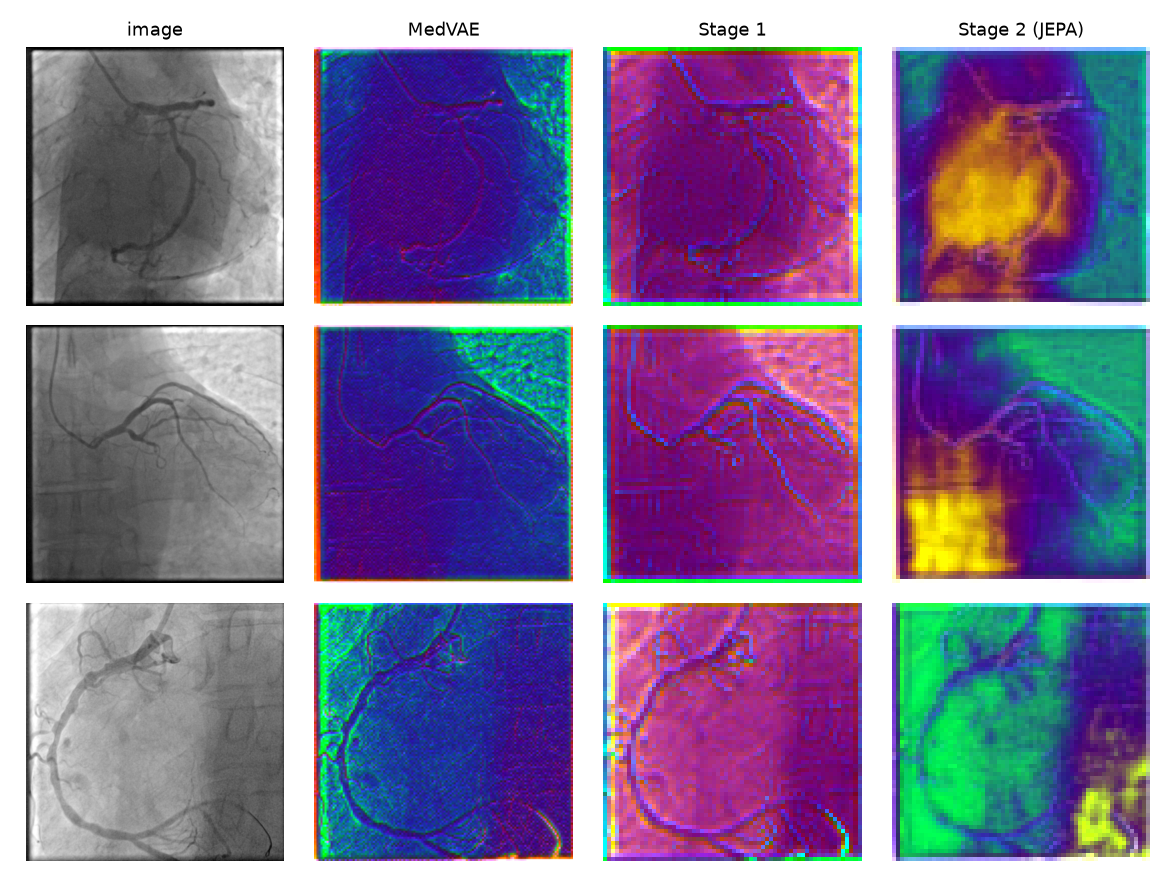
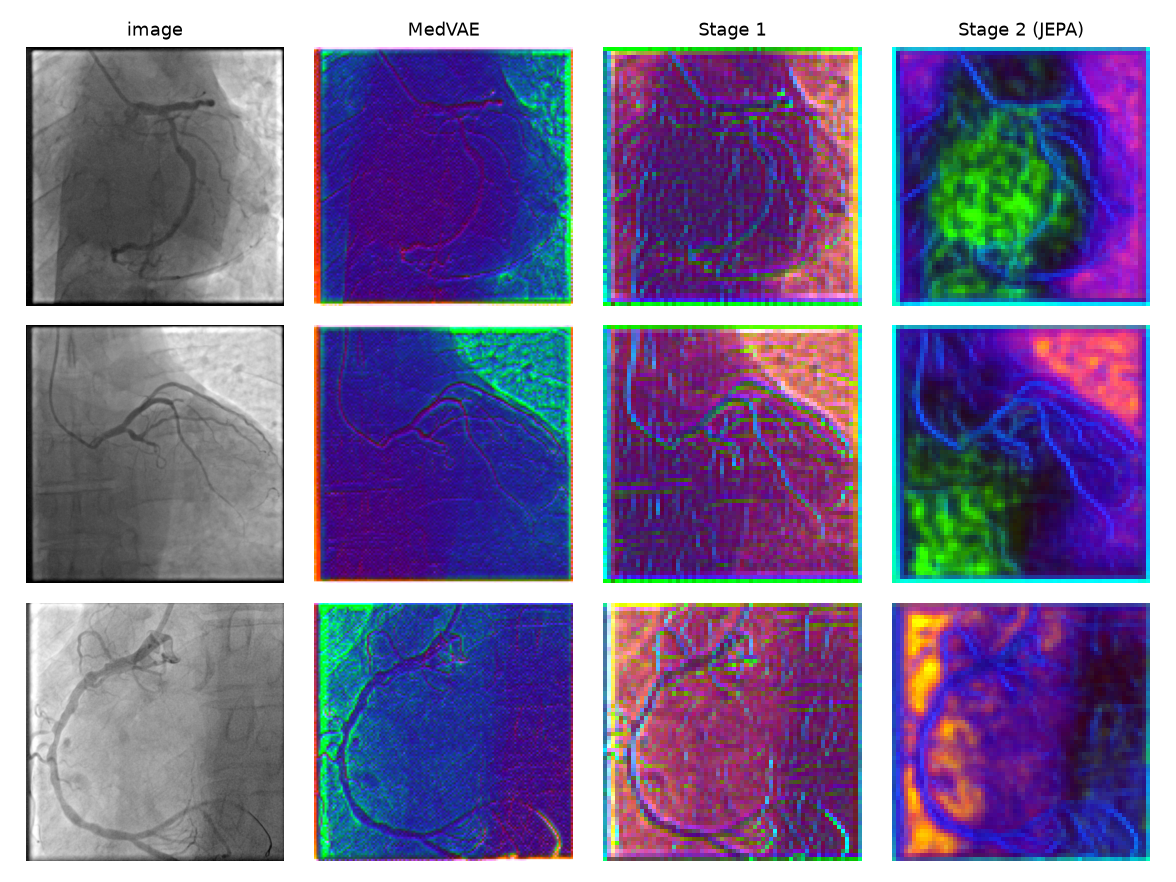
Axe C : rapport, slides, README et figures refaits sur E19 (audit CRIT-1, MAJ-6, MAJ-7)

diff --git a/final_report/final.tex b/final_report/final.tex
@@ -662,13 +662,13 @@ At the end of stage 2, one expects a latent space where patches that are anatomi
 
 \subsection{Results}
 
-\emph{Note on this revised version.} In an earlier version of this study, the ARCADE test images were part of the pre-training data, and the latent-space analysis (effective rank, number of principal components, $k$-NN and linear probe) was computed on the output of the channel-projection head $\texttt{channel\_proj}(\texttt{channel\_ds}(z)+z)$, a layer trained neither by the stage-1 loss nor by the JEPA loss; its conclusion that stage 2 concentrates the variance on 25 dimensions described a random projection of the latent. Both stages were retrained without the test images, and the representation is now evaluated on the layer that JEPA actually trains, on the 300 test images.
+\emph{Note on this revised version.} In an earlier version of this study, the ARCADE test images were part of the pre-training data, and the latent-space analysis (effective rank, number of principal components, $k$-NN and linear probe) was computed on the output of the channel-projection head $\texttt{channel\_proj}(\texttt{channel\_ds}(z)+z)$, a layer trained neither by the stage-1 loss nor by the JEPA loss; its conclusion that stage 2 concentrates the variance on 25 dimensions described a random projection of the latent. Both stages were retrained without the test images, and the representation is now evaluated on the layer that JEPA actually trains, on the 300 test images. The pre-training pipeline was then corrected once more (the augmentation noise reduced to its intended level, random augmentations made to differ across data-loading workers and epochs, fixed masks for the stage-2 validation that selects the checkpoint), and each stage was pre-trained with three seeds: the figures below are means over these three pre-trainings.
 
 \paragraph{Reconstruction quality.}
-During stage 2 the decoder remains frozen, so any displacement of the encoder into a subspace incompatible with the decoder directly degrades reconstruction (Table~\ref{tab:jepa}, Fig.~\ref{fig:recon}). Stage 1 reconstructs at $30.2$~dB, below the released MedVAE ($34.8$~dB), which compresses half as much per side and was trained on a million images; stage 2 collapses to $17.8$~dB, the frozen decoder no longer reading the representation of the adapted encoder.
+During stage 2 the decoder remains frozen, so any displacement of the encoder into a subspace incompatible with the decoder directly degrades reconstruction (Table~\ref{tab:jepa}, Fig.~\ref{fig:recon}). Stage 1 reconstructs at $31.1$~dB, below the released MedVAE ($34.8$~dB), which compresses half as much per side and was trained on a million images; stage 2 collapses to $18.6$~dB (between $17.6$ and $20.5$~dB depending on the pre-training), the frozen decoder no longer reading the representation of the adapted encoder.
 
 \paragraph{What the encoder has learnt.}
-We measure how linearly the trained features separate vessels from background: a linear probe (per-channel standardisation, $1\times1$ convolution, bilinear upsampling to $512\times512$) is trained on the 1\,000 training images, selected on the 200 validation images and evaluated on the test set, with three seeds. The probe must be trained to convergence: with a learning rate of $10^{-3}$ and 20 epochs, all scores were still rising at the last epoch; we report the converged setting (learning rate $10^{-2}$, 100 epochs), whose ranking is the same as with 20 and 60 epochs. A probe predicting the 25 artery segments, or using the single-channel latent, reaches a Dice of about $0.03$ for every model: a per-pixel linear classifier can neither name a segment nor separate vessels from a single channel. We also measure the dimensionality of the trained features (effective rank of the per-pixel feature vectors and number of principal components explaining $90\,\%$ of their variance).
+We measure how linearly the trained features separate vessels from background: a linear probe (per-channel standardisation, $1\times1$ convolution, bilinear upsampling to $512\times512$) is trained on the 1\,000 training images, selected on the 200 validation images and evaluated on the test set, with three seeds. The probe must be trained to convergence (with 20 epochs, all scores were still rising at the last epoch): we train it for 100 epochs and choose its learning rate, $10^{-3}$ or $10^{-2}$, on the validation Dice, which selects $10^{-2}$ for all three encoders. Stages 1 and 2 are compared pre-training by pre-training, with a 95\,\% confidence interval over the three pre-training seeds (Student); MedVAE is a single released model. A probe predicting the 25 artery segments, or using the single-channel latent, reaches a Dice of about $0.03$ for every model: a per-pixel linear classifier can neither name a segment nor separate vessels from a single channel. We also measure the dimensionality of the trained features (effective rank of the per-pixel feature vectors and number of principal components explaining $90\,\%$ of their variance).
 
 \begin{table}[htbp]
 \centering
@@ -677,37 +677,37 @@ We measure how linearly the trained features separate vessels from background: a
  & MedVAE & Stage 1 & Stage 2 JEPA \\
  & ($\times4$, released) & ($\times8$, from scratch) & \\
 \midrule
-PSNR / vessel PSNR (dB) & 34.8 / 35.5 & 30.2 / 30.9 & 17.8 / 24.5 \\
-Vessel probe, Dice & 0.517 $\pm$ 0.005 & \textbf{0.541 $\pm$ 0.005} & 0.485 $\pm$ 0.006 \\
-Effective rank (channels) & 251 (512) & 111 (256) & 139 (256) \\
-Components for 90\,\% variance & 61 & 22 & 34 \\
+PSNR / vessel PSNR (dB) & 34.8 / 35.5 & 31.1 / 31.7 & 18.6 / 22.9 \\
+Vessel probe, Dice & 0.517 $\pm$ 0.005 & \textbf{0.561 $\pm$ 0.006} & 0.536 $\pm$ 0.011 \\
+Effective rank (channels) & 251 (512) & 147 (256) & 156 (256) \\
+Components for 90\,\% variance & 61 & 46 & 50 \\
 \bottomrule
 \end{tabular}}
-\caption{Reconstruction and representation of the three encoders on the 300 ARCADE test images. The probe and the dimensionality are computed on the encoder features before \texttt{conv\_out}, the layer trained by the JEPA loss.}
+\caption{Reconstruction and representation of the three encoders on the 300 ARCADE test images. The probe and the dimensionality are computed on the encoder features before \texttt{conv\_out}, the layer trained by the JEPA loss. Stages 1 and 2: mean ($\pm$ standard deviation) over three pre-trainings; MedVAE: over three probe seeds.}
 \label{tab:jepa}
 \end{table}
 
 \begin{figure}[htbp]
     \centering
     \includegraphics[width=\columnwidth]{figures/yanic/recon.png}
-    \caption{Reconstruction of a test image by MedVAE, stage 1 and stage 2 (left to right after the original).}
+    \caption{Reconstruction of a test image by MedVAE, stage 1 and stage 2 (left to right after the original; pre-training seed 42).}
     \label{fig:recon}
 \end{figure}
 
-Stage 1, trained on coronary angiographies only, yields the features that best separate vessels from background ($0.541$), above the released MedVAE ($0.517$). JEPA degrades this representation instead of refining it: $0.485$ after stage 2, $0.056$ below its starting point and below the released MedVAE. It does not produce a dimensional contraction either: on the trained layer, the effective rank rises from 111 to 139 and the number of components from 22 to 34, which is the expected effect of the SIGReg term, designed to keep the embedding distribution isotropic.
+JEPA lowers the linear separability of the vessels instead of refining it: relative to the stage-1 encoder it starts from, the probe Dice drops by $0.025$ (95\,\% CI $[-0.045, -0.005]$), for each of the three pre-trainings ($-0.019$, $-0.022$, $-0.034$) and on the validation set as well. The adapted encoder ends up level with the released MedVAE ($+0.019$, CI $[-0.008, +0.045]$). Stage 1 gives the most separable features ($0.561$, against $0.517$ for MedVAE); since the two models differ in architecture, compression factor and training data, we do not attribute this gap to any one of these factors. JEPA does not produce a dimensional contraction either: the effective rank goes from 147 to 156 on average, without a consistent direction across pre-trainings ($+5$, $-2$, $+26$).
 
 \paragraph{Intermediate feature visualisation --- RGB PCA.}
-Projecting the same features on their first three principal components (PC1$\to$R, PC2$\to$G, PC3$\to$B, percentile normalisation [2\%, 98\%]), following the visualisation protocol of DINO~\cite{caron2021emergingpropertiesselfsupervisedvision} and LeJEPA~\cite{balestriero2025lejepaprovablescalableselfsupervised}, illustrates these results (Fig.~\ref{fig:pca}). The features of MedVAE and stage 1 follow the vascular tree, stage 1 with a cleaner separation from the background; those of stage 2 are dominated by large regions of homogeneous intensity, in which the vessels are only faintly visible: the patch-prediction objective favours a coarse, global description of the image over the fine local structure that segmentation needs.
+Projecting the same features on their first three principal components (PC1$\to$R, PC2$\to$G, PC3$\to$B, percentile normalisation [2\%, 98\%]), following the visualisation protocol of DINO~\cite{caron2021emergingpropertiesselfsupervisedvision} and LeJEPA~\cite{balestriero2025lejepaprovablescalableselfsupervised}, illustrates these results (Fig.~\ref{fig:pca}). The features of MedVAE and stage 1 follow the vascular tree, stage 1 with a cleaner separation from the background; in those of stage 2 the vessels are still visible, but large regions of homogeneous colour dominate, which is consistent with a coarser description of the image, less suited to the fine local structure that segmentation needs.
 
 \begin{figure}[htbp]
     \centering
     \includegraphics[width=\columnwidth]{figures/yanic/pca.png}
-    \caption{RGB PCA of the encoder features before \texttt{conv\_out} for three test angiographies (PCA fitted on 50 other test images). Columns: image, MedVAE, stage 1, stage 2.}
+    \caption{RGB PCA of the encoder features before \texttt{conv\_out} for three test angiographies (PCA fitted on 50 other test images; pre-training seed 42). Columns: image, MedVAE, stage 1, stage 2.}
     \label{fig:pca}
 \end{figure}
 
 \paragraph{Summary.}
-Replacing BioMedCLIP by a self-supervised JEPA objective on ARCADE, with a frozen decoder, degrades both the reconstruction and the linear separability of the vessels relative to the stage-1 autoencoder it starts from. Learning on coronary angiographies helps (stage 1 beats the released MedVAE on the probe), but the benefit comes from the domain-specific reconstruction training, not from the JEPA stage.
+Replacing BioMedCLIP by a self-supervised JEPA objective on ARCADE, with a frozen decoder, degrades both the reconstruction and the linear separability of the vessels relative to the stage-1 autoencoder it starts from, consistently over three pre-trainings; the adapted encoder is no better than the released MedVAE. In our experiments, the most separable features are those of the stage-1 autoencoder trained on ARCADE, before any JEPA training.
 
 \newpage
 \section{MedVAE as a Latent Representation for Coronary Segmentation}

diff --git a/final_report/presentation.tex b/final_report/presentation.tex
@@ -320,7 +320,7 @@ Blur & $-2.0 \to +0.1$ & -- \\
   \begin{itemize}
     \item \textbf{Stage 1 is not MedVAE}: same family, but smaller (21M), $\times8$ per side, trained \emph{from scratch} on ARCADE
     \item \alert{Earlier issues}: test images in the pre-training; the ``25 dimensions for 90\,\% of the variance'' measured \texttt{channel\_proj}, a layer \emph{never trained}
-    \item Now: retrained without the test set; evaluated on the layer JEPA trains (features before \texttt{conv\_out}), 300 test images
+    \item Now: retrained without the test set, \textbf{3 pre-trainings}; evaluated on the layer JEPA trains (features before \texttt{conv\_out}), 300 test images; probe lr chosen on validation
   \end{itemize}
   \vspace{0.3em}
   \centering\footnotesize
@@ -328,9 +328,9 @@ Blur & $-2.0 \to +0.1$ & -- \\
   \toprule
    & MedVAE & Stage 1 & Stage 2 JEPA \\
   \midrule
-  PSNR (dB) & 34.8 & 30.2 & 17.8 \\
-  Vessel linear probe (Dice) & 0.517 & \textbf{0.541} & 0.485 \\
-  Effective rank / dims for 90\,\% var. & 251 / 61 & 111 / 22 & 139 / 34 \\
+  PSNR (dB) & 34.8 & 31.1 & 18.6 \\
+  Vessel linear probe (Dice) & 0.517 & \textbf{0.561} & 0.536 \\
+  Effective rank / dims for 90\,\% var. & 251 / 61 & 147 / 46 & 156 / 50 \\
   \bottomrule
   \end{tabular}
 \end{frame}
@@ -342,9 +342,9 @@ Blur & $-2.0 \to +0.1$ & -- \\
   \vspace{0.2em}
   {\footnotesize
   \begin{itemize}
-    \item \alert{Frozen} decoder: the adapted encoder is no longer decodable (17.8 dB)
-    \item JEPA \textbf{degrades} vessel separability ($-0.056$ vs stage 1), \textbf{no contraction} (rank $111 \to 139$, as SIGReg intends)
-    \item Learning on angiographies helps (stage 1 $>$ MedVAE), JEPA does not
+    \item \alert{Frozen} decoder: the adapted encoder is no longer decodable (18.6 dB)
+    \item JEPA \textbf{lowers} vessel separability vs stage 1 ($-0.025$, 3 pre-trainings out of 3), ends level with MedVAE; \textbf{no contraction} (rank $147 \to 156$, no consistent direction)
+    \item Best features: stage 1, before JEPA
   \end{itemize}}
 \end{frame}
 

diff --git a/jepa_adaptation/eval/figures.py b/jepa_adaptation/eval/figures.py
@@ -1,4 +1,4 @@
-"""Figures de l'axe C (rapport) avec les modèles actuels : reconstructions et PCA des features.
+"""Figures de l'axe C (rapport) avec les modèles E19 (seed 42) : reconstructions et PCA des features.
 
     - recon.png : une image de test et ses reconstructions (MedVAE, étape 1, étape 2 JEPA) ;
     - pca.png   : features avant conv_out projetées sur 3 composantes principales (RGB),
@@ -27,9 +27,10 @@ from finetune.dataset import ArcadeDataset             # noqa: E402
 from probe import _penultimate_hook, load_autoencoder  # noqa: E402
 
 OUT = REPO_ROOT / "final_report" / "figures" / "yanic"
+RUNS = REPO_ROOT / "experiments" / "runs"                                       # pré-entraînement E19, seed 42
 MODELS = {"MedVAE": ("medvae", None),
-          "Stage 1": ("stage1", "jepa_adaptation/outputs/stage1/best.pt"),
-          "Stage 2 (JEPA)": ("stage2", "jepa_adaptation/outputs/stage2/best.pt")}
+          "Stage 1": ("stage1", str(sorted(RUNS.glob("*_e19_jepa_stage1_seed42"))[-1] / "best.pt")),
+          "Stage 2 (JEPA)": ("stage2", str(sorted(RUNS.glob("*_e19_jepa_stage2_seed42"))[-1] / "best.pt"))}
 SHOW = (144, 120, 219)
 
 

diff --git a/README.md b/README.md
@@ -131,28 +131,33 @@ the target features of masked patches (Smooth-L1 + SIGReg), with the decoder fro
 recipe on ARCADE, **stage 1** trains an autoencoder of the MedVAE family from scratch (21M parameters,
 ×8 per side, 64×64×1 latent; test images excluded), and **stage 2** adapts its encoder with JEPA.
 
-Evaluation on the 300 test images, on the layer JEPA trains (features before `conv_out`) — experiment
-E14 in [EXPERIMENTS.md](EXPERIMENTS.md):
+Evaluation on the 300 test images, on the layer JEPA trains (features before `conv_out`), over three
+pre-trainings of each stage — experiment E19 in [EXPERIMENTS.md](EXPERIMENTS.md):
 
 | | MedVAE (released, ×4) | Stage 1 (×8, from scratch) | Stage 2 JEPA |
 |---|---|---|---|
-| Reconstruction PSNR (dB) | 34.8 | 30.2 | 17.8 |
-| Vessel linear probe (Dice, 3 seeds) | 0.517 ± 0.005 | **0.541 ± 0.005** | 0.485 ± 0.006 |
-| Effective rank of the features | 251 / 512 | 111 / 256 | 139 / 256 |
+| Reconstruction PSNR (dB) | 34.8 | 31.1 | 18.6 |
+| Vessel linear probe (Dice) | 0.517 ± 0.005 | **0.561 ± 0.006** | 0.536 ± 0.011 |
+| Effective rank of the features | 251 / 512 | 147 / 256 | 156 / 256 |
 
-**Conclusion:** learning on coronary angiographies helps (stage 1 separates vessels better than the
-released MedVAE), but the JEPA stage **degrades** both the representation (−0.056 on the probe) and,
-with a frozen decoder, the reconstruction. It does not compact the latent either: on the trained layer
-the effective rank *increases* (as SIGReg intends). The original analysis had measured a layer that is
-never trained (`channel_proj`) and included the test images in pre-training.
+**Conclusion:** the JEPA stage **lowers** the linear separability of the vessels relative to the stage-1
+encoder it starts from (−0.025 on the probe, for each of the three pre-trainings) and, with a frozen
+decoder, collapses the reconstruction; the adapted encoder ends level with the released MedVAE. It does
+not compact the latent either (no consistent change of the effective rank). The most separable
+features are those of stage 1, before JEPA; stage 1 and MedVAE differ in architecture, compression and
+data, so that gap is not attributed to any single factor. The original analysis had measured a layer
+that is never trained (`channel_proj`) and included the test images in pre-training.
 
 ```bash
-sbatch jepa_adaptation/jobs/stage_1.sbatch                 # stage 1 (reconstruction)
-sbatch jepa_adaptation/jobs/stage_2.sbatch                 # stage 2 (JEPA), from stage 1's best.pt
-python jepa_adaptation/eval/probe.py --model stage2 --ckpt jepa_adaptation/outputs/stage2/best.pt \
-    --task vessels --epochs 100 --lr 1e-2                  # linear probe (also: medvae, stage1)
-python jepa_adaptation/eval/reconstruction.py --model stage2 --ckpt jepa_adaptation/outputs/stage2/best.pt
-python jepa_adaptation/eval/feature_rank.py --model stage2 --ckpt jepa_adaptation/outputs/stage2/best.pt
+# one pre-training (E19 uses seeds 42, 43, 44); runs go to experiments/runs/<date>_<name>/
+python jepa_adaptation/stage1_training.py --seed 42 --run-name e19_jepa_stage1_seed42
+S1=$(ls -d experiments/runs/*_e19_jepa_stage1_seed42 | tail -1)/best.pt
+python jepa_adaptation/stage2_training.py --seed 42 --stage1-ckpt $S1 --run-name e19_jepa_stage2_seed42
+S2=$(ls -d experiments/runs/*_e19_jepa_stage2_seed42 | tail -1)/best.pt
+# linear probe (also: --model medvae / stage1); lr 1e-3 or 1e-2, chosen on val_dice_fg
+python jepa_adaptation/eval/probe.py --model stage2 --ckpt $S2 --task vessels --epochs 100 --lr 1e-2
+python jepa_adaptation/eval/reconstruction.py --model stage2 --ckpt $S2
+python jepa_adaptation/eval/feature_rank.py --model stage2 --ckpt $S2
 ```
 
 ---
